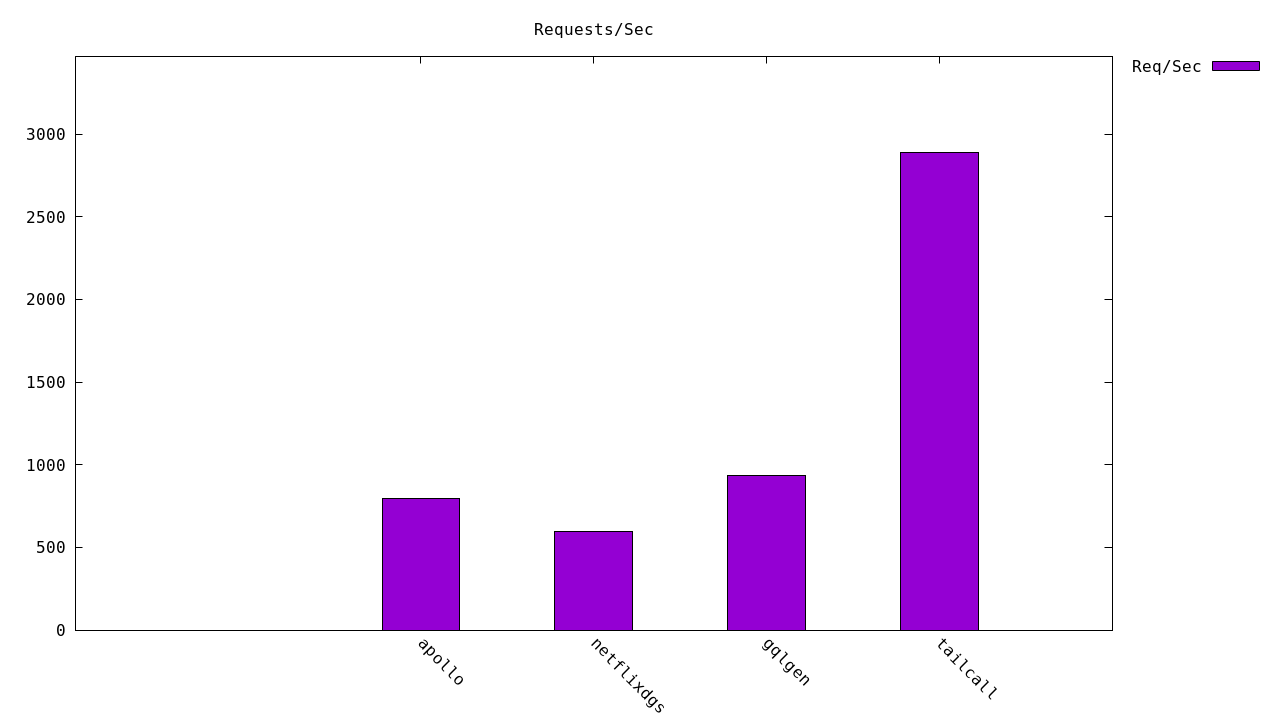
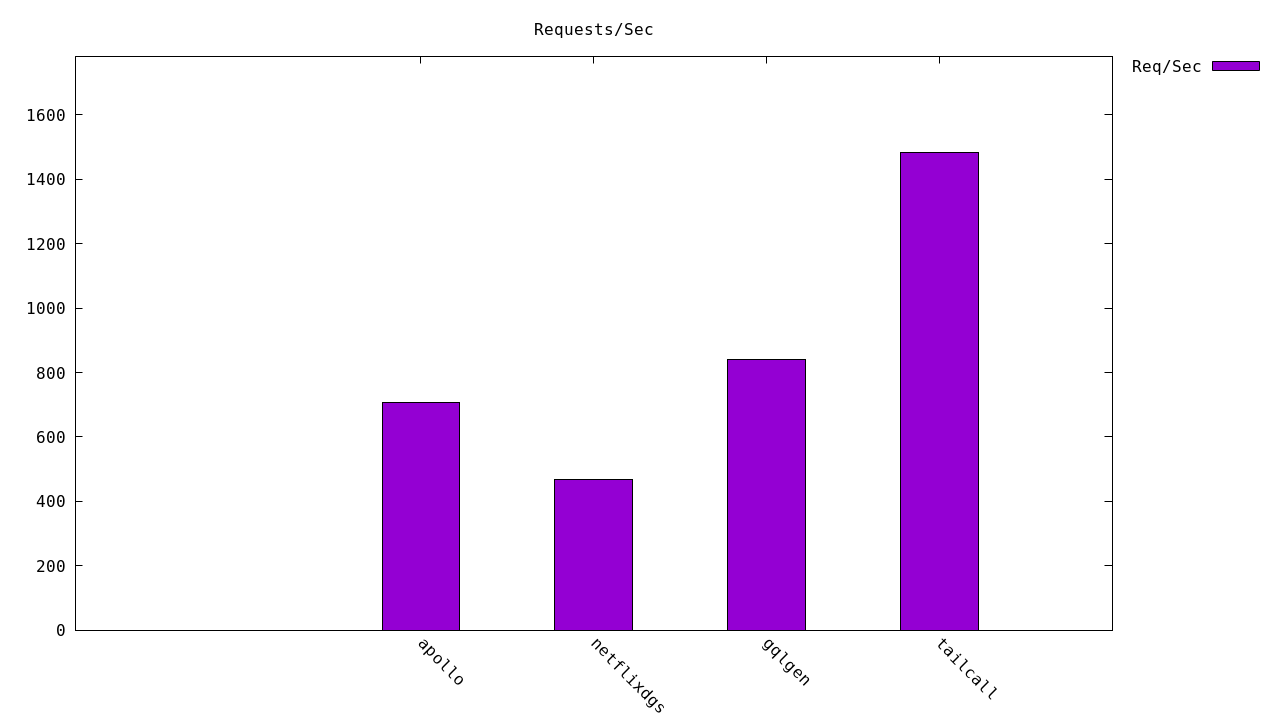
Updated performance results in README.md

diff --git a/README.md b/README.md
@@ -42,14 +42,12 @@ Get started with the benchmarks:
 ## Benchmark Results
 
 <!-- PERFORMANCE_RESULTS_START -->
-
-| Server           | Requests/sec | Latency (ms) |
-| ---------------- | -----------: | -----------: |
-| [Tailcall]       |   `2,890.68` |      `34.69` |
-| [Gqlgen]         |     `935.00` |     `115.73` |
-| [Apollo GraphQL] |     `793.37` |     `128.22` |
-| [Netflix DGS]    |     `597.39` |     `191.85` |
-
+| Server | Requests/sec | Latency (ms) |
+|--------|--------------|--------------|
+| apollo | 707.007 | 145.483 |
+| netflixdgs | 467.623 | 230.67 |
+| gqlgen | 839.063 | 129.387 |
+| tailcall | 1484.52 | 108.02 |
 <!-- PERFORMANCE_RESULTS_END -->
 
 ### Throughput (Higher is better)
